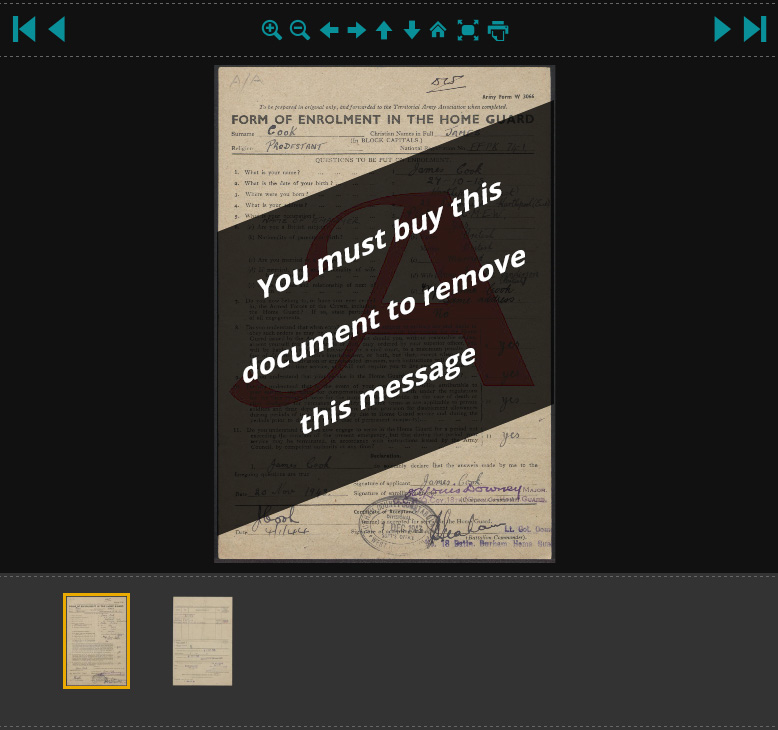
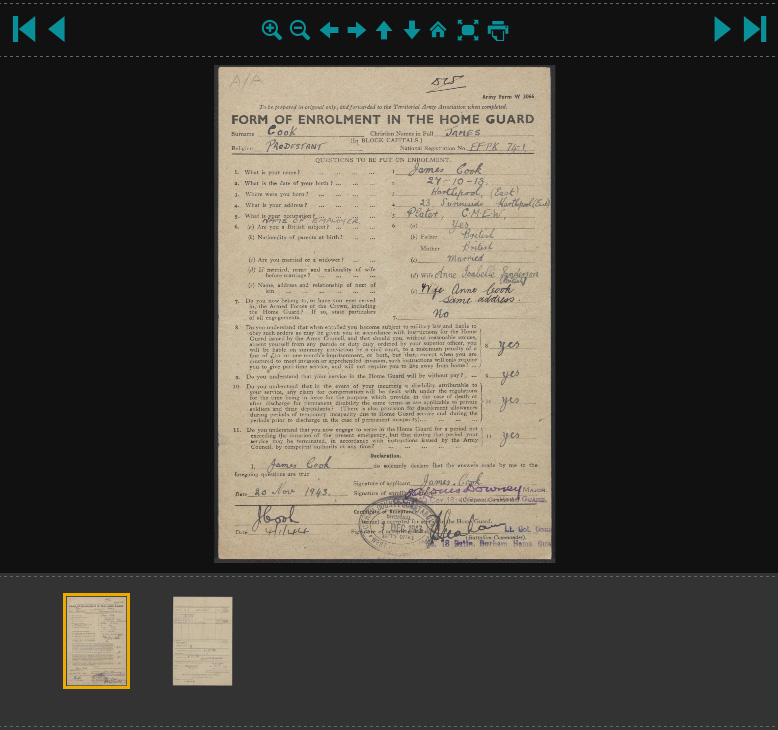
changed image name

Changed region(s): [[0.2776, 0.1205, 0.7095, 0.7534]]

diff --git a/image-viewer-offsite.htm b/image-viewer-offsite.htm
@@ -475,7 +475,7 @@
         <div>
             <div class="ng-cloak" ng-cloak="">
                 <div id="imageViewer" ng-controller="imageViewerCtrl" image-viewer="">
-                    <img src="src/image-viewer-placeholder.jpg" width="100%">
+                    <img src="src/image-viewer-watermark.jpg" width="100%">
                     <!--<img id="subjectImage" subject-image="" zoom-pan-image="" class="subject-image" ng-src="{{selectedThumb.imageUrl}}" alt="Subject image">-->
                     <!--<a class="first-item item-navigation" title="View first image" ng-click="$event.preventDefault();gotoFirstItem()"></a>-->
                     <!--<a title="View previous image" class="previous-item item-navigation" ng-click="$event.preventDefault();gotoPreviousItem()"></a>-->

diff --git a/details-template.htm b/details-template.htm
@@ -497,7 +497,7 @@
             <div class="ng-cloak" ng-cloak="">
                 <div id="imageViewer" ng-controller="imageViewerCtrl" image-viewer="">
 
-                    <img src="src/image-viewer-placeholder.jpg" width="100%">
+                    <img src="src/image-viewer-watermark.jpg" width="100%">
                     <!--<img id="subjectImage" subject-image="" zoom-pan-image="" class="subject-image" ng-src="{{selectedThumb.imageUrl}}" alt="Subject image">-->
                     <!--<a class="first-item item-navigation" title="View first image" ng-click="$event.preventDefault();gotoFirstItem()"></a>-->
                     <!--<a title="View previous image" class="previous-item item-navigation" ng-click="$event.preventDefault();gotoPreviousItem()"></a>-->

diff --git a/image-viewer-preview.htm b/image-viewer-preview.htm
@@ -466,7 +466,7 @@
             <div class="ng-cloak" ng-cloak="">
                 <div id="imageViewer" ng-controller="imageViewerCtrl" image-viewer="">
 
-                    <img src="src/image-viewer-placeholder.jpg" width="100%">
+                    <img src="src/image-viewer-watermark.jpg" width="100%">
                     <!--<img id="subjectImage" subject-image="" zoom-pan-image="" class="subject-image" ng-src="{{selectedThumb.imageUrl}}" alt="Subject image">-->
                     <!--<a class="first-item item-navigation" title="View first image" ng-click="$event.preventDefault();gotoFirstItem()"></a>-->
                     <!--<a title="View previous image" class="previous-item item-navigation" ng-click="$event.preventDefault();gotoPreviousItem()"></a>-->

diff --git a/watermark.htm b/watermark.htm
@@ -497,7 +497,7 @@
             <div class="ng-cloak" ng-cloak="">
                 <div id="imageViewer" ng-controller="imageViewerCtrl" image-viewer="">
 
-                    <img src="src/image-viewer-placeholder.jpg" width="100%">
+                    <img src="src/image-viewer-watermark.jpg" width="100%">
                     <!--<img id="subjectImage" subject-image="" zoom-pan-image="" class="subject-image" ng-src="{{selectedThumb.imageUrl}}" alt="Subject image">-->
                     <!--<a class="first-item item-navigation" title="View first image" ng-click="$event.preventDefault();gotoFirstItem()"></a>-->
                     <!--<a title="View previous image" class="previous-item item-navigation" ng-click="$event.preventDefault();gotoPreviousItem()"></a>-->
